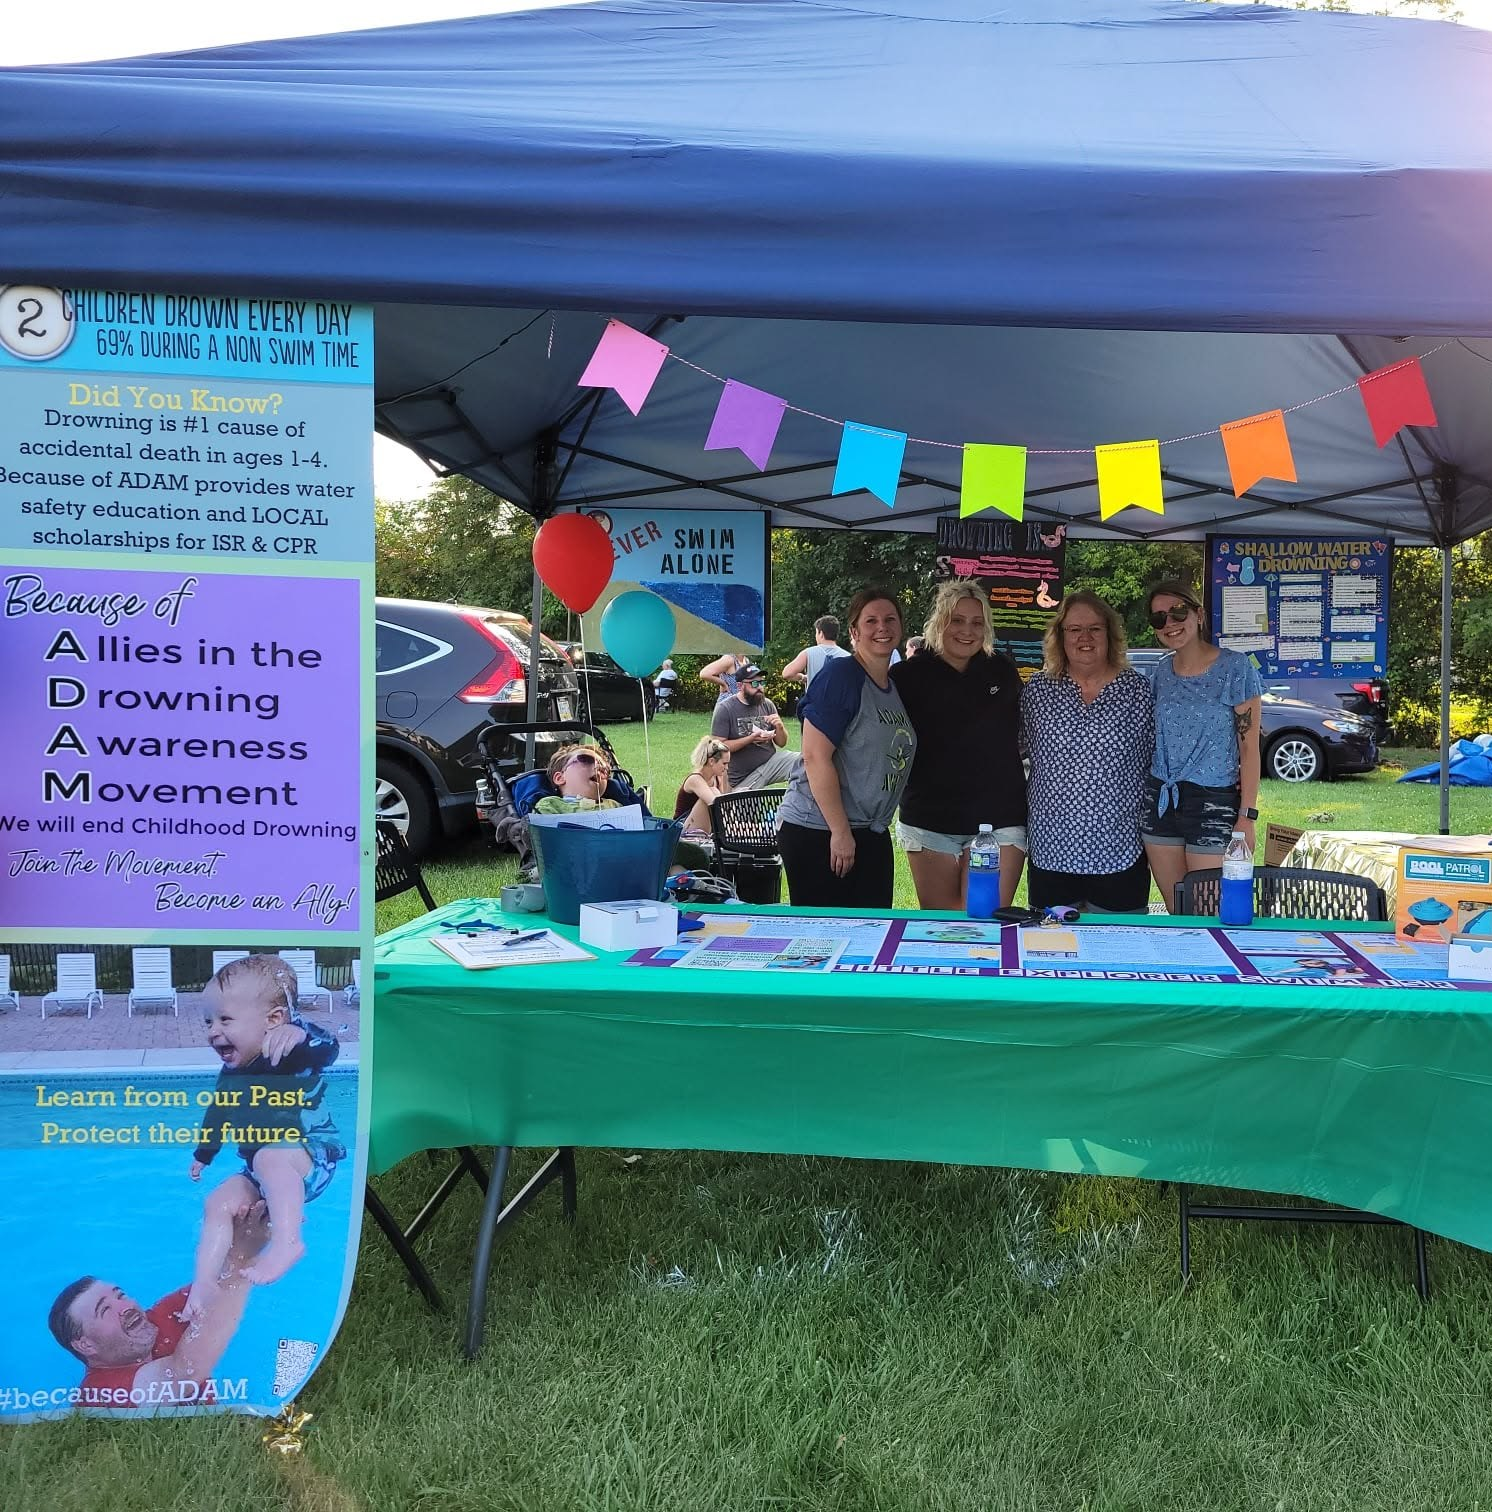
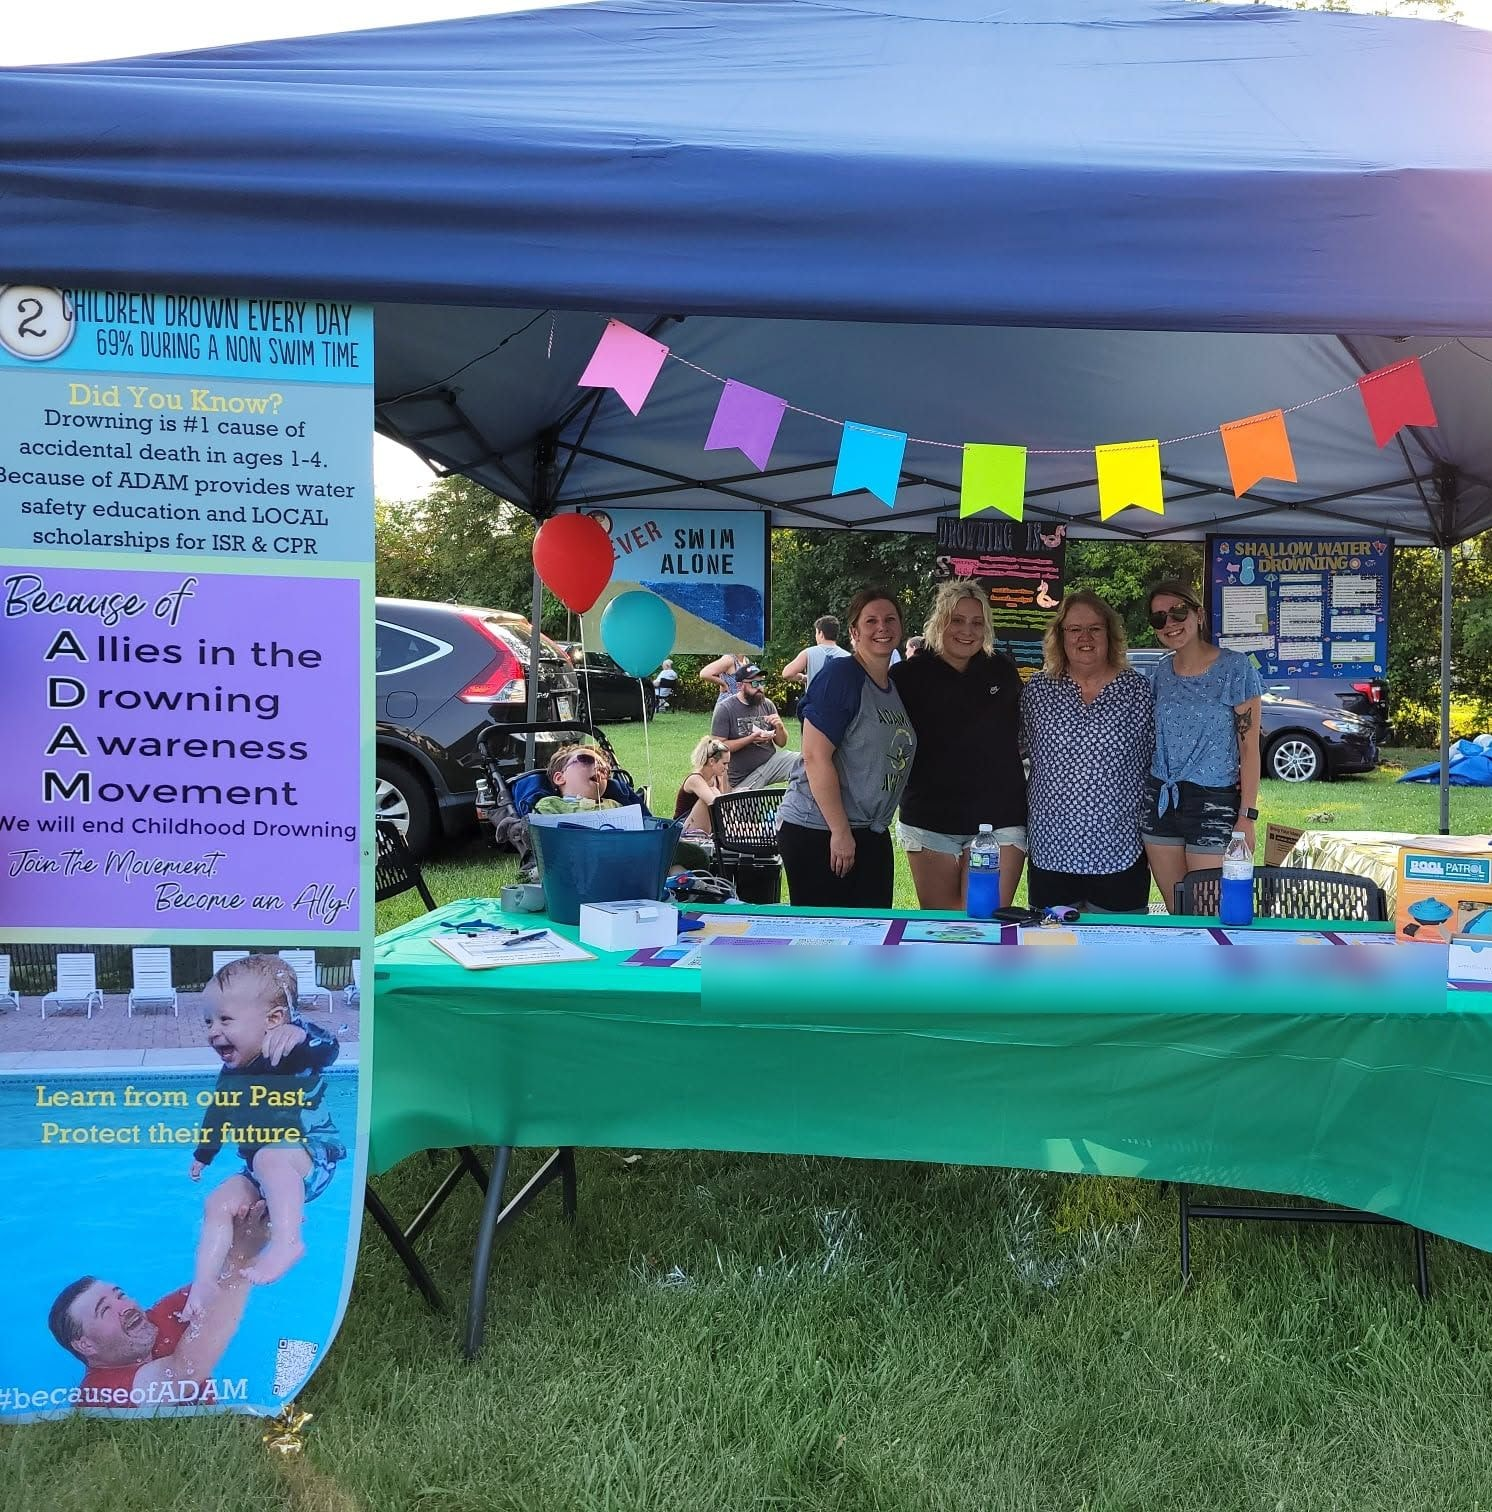
Photos: fact-checked captions, and the layout fixes from the design review
Fact check against the photos and Mom's dated posts:
- The Disney photo has eight people, so the caption no longer counts heads.
- The booth photo still showed Dad's business name on the table runner;
  it's blurred, and the alt says 'a July 2021 community event' until the
  family confirms the venue.
- The painted-rocks photo was from March 2019 and painted for another
  family's child, so the Halloween batch (fall 2018) replaces it, and the
  event reads 'Since spring 2018'.
- The pavilion crowd wears the 2017 benefit shirts, so that alt names no
  event; the 200 Club alt names no year; two alts that were empty are
  written; 'smiling', '14 months', 'one of my games', 'cap' and 'two
  grown-ups' are gone where the photo doesn't show them.
- The 2017 dinner was at the Duncansville Community Center, with a dance.

Design review:
- On phones the story's opening photo sits above the story instead of
  after it; on desktop the sticky column only sticks on tall screens.
- Captions line up under natural-width photos and balance their lines.
- Team cards are square, so Mom's and Adam's faces aren't clipped.
- The beach photo moves into the text column on Survivors, which top-aligns.
- Event cards with photos come first in each group.
- Portrait photos cap at 520px, which also sharpens two low-res ones.
- The PICU photo follows the first paragraph instead of the heading, and
  the Tupperware photo is cropped so Adam is bigger in the frame.

Changed region(s): [[0.4625, 0.6217, 0.9866, 0.6839]]

diff --git a/src/styles/global.css b/src/styles/global.css
@@ -369,13 +369,14 @@ a:hover {
   display: block;
   width: auto;
   max-width: 100%;
-  max-height: min(620px, 78vh);
+  max-height: min(520px, 65vh);
   margin: 0 auto;
   box-shadow: 0 30px 60px -30px rgb(4 29 43 / 0.55);
 }
 .prose .story-figure figcaption {
   margin-top: 12px;
   text-align: center;
+  text-wrap: balance;
   font-size: 0.92rem;
   color: var(--ink-soft);
 }

diff --git a/docs/STORY-NOTES.md b/docs/STORY-NOTES.md
@@ -71,35 +71,35 @@ Full-size photos live in `public/images/uploads/` (uploaded through GitHub or th
 | `momdadaj-1.jpg` | Adam's Story, after Dad's bath-time quote | Mom, Dad and baby Adam |
 | `aj_plants.jpg` | Adam's Story, the 2017 garden | Adam in front of the seedling trays |
 | `ricgradredbikeb4acc-1.jpg` | Adam's Story, June 5 | Rickey's graduation, days before; the red tricycle |
-| `picu.jpg` | Adam's Story, PICU | Mom holding Adam in the PICU, summer 2017 (the one hospital photo on the site) |
-| `adams_village.jpg` | Adam's Story, September 2017; Events (Adam's Hope benefit 2017) | Bee-logo Adam's Hope shirts under a tent, Adam in front. **Family, please confirm this is the 2017 benefit on the bayou** |
-| `fishingrodeo.jpg` | Events (fishing rodeo) | The packed pavilion. The family's own filename says fishing rodeo, so it is no longer captioned as the 2017 benefit |
+| `picu.jpg` | Adam's Story, PICU | Mom holding Adam in the PICU; her badge reads 7-3-17, the day of her first cuddle (July 5, 2017 post). The one hospital photo on the site; **family, confirm it stays** |
+| `adams_village.jpg` | Adam's Story, September 2017; Events (Adam's Hope benefit 2017) | Light blue bee-logo Adam's Hope shirts (the 2017 design), Adam in front; Adam was in Louisiana that September. Captioned without a place. **Family, please confirm this is the 2017 benefit on the bayou** |
+| `fishingrodeo.jpg` | Events (fishing rodeo) | The packed pavilion. The family's filename says fishing rodeo, but every legible shirt is the light blue 2017 benefit design, not the royal blue 2018 rodeo shirts, so the alt names no event. **Family: 2017 benefit or 2018 rodeo?** |
 | `fr17.jpg` | Adam's Story, the 2018 rodeo | Mom, Lea (bee face paint) and Adam; the photo itself says "Adams Hope Fishing Rodeo 2018" |
 | `fr3.jpg` | Get Involved | The crowd under the tent at the rodeo, Adam in the middle (2018 per the fr-series) |
 | `lea_dad_garden.jpg` | Adam's Story, "Planting seeds" | Dad and Lea at the raised bed. Year not stated in the caption |
 | `mom-nurse-1.jpg` | Adam's Story, "Planting seeds" | Mom's nursing graduation, family around her |
 | `aj_smile.jpg` | Adam's Story, "Because of Adam" | Adam in glasses, "Mom's amazing dude" sweatshirt |
-| `mom_and_adam_at_softball_game.jpg` | Adam's Story, the games paragraph | Mom and Adam on a blanket at one of Avery's softball games (per the family's filename) |
+| `mom_and_adam_at_softball_game.jpg` | Adam's Story, the games paragraph | Mom and Adam on a blanket at a softball game (the filename doesn't say whose). Adam's red, white and blue shirt matches Mom's July 4, 2019 "ballpark last week" post |
 | `avery_and_aj2.jpg` | Adam's Story, the nights in his room | Avery and Adam, Tigers jersey |
 | `leaaj2.jpg` | Adam's Story, Lea's paragraph | Lea and Adam in the armchair |
-| `disney.jpg` | About, family photo | All seven at Disney in Seven Dwarfs shirts; Adam's says "The Charming One" |
+| `disney.jpg` | About, family photo | Eight people in "The ___ One" shirts at the Seven Dwarfs Mine Train; Adam is "The Charming One," Lea is Snow White. **Family: who is the eighth person, and are they fine being on the site?** The caption no longer counts heads |
 | `mom_and_aj.jpg` | About, Mom's card | Mom and Adam, Halloween 2019 (the family's "Up" year, Mom's post of Nov. 9, 2019) |
 | `new_normal.jpg` | About, Dad's card | Dad and Adam on a train ride |
 | `xmaspic.jpg` | About, siblings' card | The kids under the Christmas blanket |
 | `lea_and_adam.jpg` | Survivors & Families, top | Lea as Kevin and Adam as Russell from "Up," Halloween 2019 (Mom's post of Nov. 9, 2019) |
 | `beach_lifegoeson.jpg` | Survivors & Families, beside "What nonfatal drowning means" | Adam at the beach between two grown-ups (captioned only "Adam at the beach") |
-| `dad-teaching-a-float.jpg` | ISR Swim Lessons | A crop of `dadisr.jpg` with the business name cropped off the top and bottom. **Family: please confirm the student's parents are fine with this photo on the site** |
-| `booth-2021.jpg` | Events (Water Safety Booth 2021) | A crop of `duncansville_days_bcofadam.jpg` with the ISR business banner cropped off the right |
-| `200_club.jpg` | Events (Adam's Army 200 Club, 2018) | The group at the Duncansville Community Center |
+| `dad-teaching-a-float.jpg` | ISR Swim Lessons | A crop of `dadisr.jpg` with the business name cropped off the top and bottom. It is a pool photo with a student who isn't family, from Dad's own public ad. **Family: please confirm the student's parents are fine with this photo on the site** |
+| `booth-2021.jpg` | Events (Water Safety Booth 2021) | A crop of `duncansville_days_bcofadam.jpg` with the ISR business banner cropped off the right and the business name on the table runner blurred. The alt says "a July 2021 community event" until the family confirms it was Duncansville Community Days |
+| `200_club.jpg` | Events (Adam's Army 200 Club, 2018) | The group at the Duncansville Community Center. Both 200 Club nights (Oct. 14, 2017 and Oct. 13, 2018) were there, and Adam looks young in this one. **Family: 2017 or 2018?** The alt names no year |
 | `cornhole_countdown.jpg` | Events (Cornhole 2020) | Adam with the "1 day until cornhole" chalkboard |
-| `rocks.jpg` | Events (Adam Rocks) | Painted rocks: Hope, Peace, Joy, #AdamRocks |
+| `rocks2.jpg` | Events (Adam Rocks) | The Halloween batch of painted rocks (fall 2018, Mom's posts of Sept. 15 and Oct. 30, 2018). `rocks.jpg` is **not used**: it is from March 2019 and the rocks were painted for Amelia, another family's child, so her name stays off the site |
 | `momsswing.jpg` | Events (Wear Blue), News | Mom's swing painting |
 | `adamchildofgodheadshot.jpg` | Home, "Meet Adam" | Adam in the "Child of God" headband |
 | `cornhole-2021-flyer.jpg` | Events (Cornhole 2021) | The flyer |
 
 Uploaded but **not used on purpose**: `lesisrddays.jpg`, `dadisr.jpg` and `duncansville_days_bcofadam.jpg` uncropped (Dad's business banner or name), `cornhole.jpg`, `200_club_benefit.jpg`, `adams_bayou_benefit.jpg` and `adams_hope_pamphlet.jpg` (phone numbers, people's names or payment links), `isr.jpg` (ISR's registered logo), `kailee_rock.jpg` (a child who isn't family), `lea_and_aj_kiss.jpg`, `right_after.jpg`, `small_hospital_couch.jpg`, `lea_stuffed_animals.jpg`, `captainaj.jpg` (hospital), `adams_village_3.jpg` (another family's teal shirts), and personal photos (`mom+dad.jpg`, `momdadgirls.jpg`, `momdadlea.jpg`, `roadtrip.jpg`, `snowman.jpg`, `decorating_xmas_tree.jpg`, `lea_bday.jpg`, `tiger_fans.jpg`, `yoda.jpg`, `aj_2025.jpg` which is also stored sideways). The 206px thumbnails and exact duplicates of files already in use were deleted.
 
-Lightly brightened in October 2026 so they read on a phone (no other edits): `before_aj_mess.jpg`, `aj_plants.jpg`, `picu.jpg`, `avery_and_aj2.jpg`, `xmaspic.jpg`, `fishingrodeo.jpg`. The originals are in the git history and on Facebook.
+Lightly brightened in October 2026 so they read on a phone (no other edits): `aj_plants.jpg`, `picu.jpg`, `avery_and_aj2.jpg`, `xmaspic.jpg`, `fishingrodeo.jpg`. `before_aj_mess.jpg` was brightened and cropped tighter (the countertop at the top is gone, so Adam is bigger in the frame). The originals are in the git history and on Facebook.
 
 Kept off the site: hospital and medical photos (one PICU photo excepted), bath and pool photos, the newspaper photo, siblings' personal photos, and flyers with phone numbers or the prayersforadam PayPal.
 
@@ -147,6 +147,7 @@ Those stay on Facebook, where people choose to follow along.
 - **Adam Rocks the Jaffa**, Altoona (announced Feb. 28, 2020, with event shirts and "Adam's Ambassadors"). Avery thinks it was probably canceled (likely COVID), so it isn't on the site.
 - **Wear Blue on June 5**: every year, since the first anniversary in 2018 (Mom's poem "The Color of Love," June 4, 2018: "Today I choose to wear BLUE for Adam's hope, his strength, and our journey's reflection.")
 - **Vendor fair**, Saturday, Oct. 14, 2017, 10 a.m. to 2 p.m.: the only post says Adam's Hope shirts were for sale there, not that the fair was held for Adam, so the site mentions it inside the benefit dinner event instead of as its own event.
+- **The Oct. 14, 2017 dinner** was a "200 Club Benefit Dinner, Drawing & Dance" at the Duncansville Community Center (doors at 5, drawing at 6:30, dance at 7; $50 ticket admits 2; $800 drawing), per the flyer `200_club_benefit.jpg`, which stays off the site because it names contacts.
 
 ## News coverage we've had
 

diff --git a/src/content/pages/adams-story.md b/src/content/pages/adams-story.md
@@ -38,7 +38,7 @@ That spring, Dad and Lea grew a garden from seed. Lea was 4, and she picked out 
 
 That Monday was June 5, 2017, and our house was as full as it gets. Rickey had just graduated from high school, family had flown in to celebrate, and Grace and I were in our uniforms for the first game of the season. After the business with my brush, Adam went to play with Lea in a tent in the living room, carrying his toys inside, and Dad, Grace and I left for the field. Dad coached our team, so the three of us always went early to warm up.
 
-![](/images/uploads/ricgradredbikeb4acc-1.jpg)
+![Rickey in his blue graduation cap and gown, bending down on the track to Adam, who sits on his red tricycle and reaches up to touch his face](/images/uploads/ricgradredbikeb4acc-1.jpg)
 
 *Rickey’s graduation, days before. Adam’s red tricycle still sits in Mom’s closet.*
 
@@ -52,11 +52,11 @@ Everyone who could took a turn after Mom: our family, the first responders, the 
 
 ## She read to him anyway
 
+Mom stayed with him, first in Pittsburgh, and for the next four months our family lived in two places. One week in, a neurologist told her that Adam would never hear her again. She read to him anyway. For 33 days she wasn’t allowed to hold him, so she stood beside his crib, *“singing, reading, praying and squeezing his hand but nothing more.”* Then one day, while she was reading, he cried.
+
 ![Mom holding Adam in the hospital, with his breathing tube and wires](/images/uploads/picu.jpg)
 
 *Mom and Adam in the PICU, summer 2017.*
-
-Mom stayed in Pittsburgh with him, and for the next four months our family lived in two places. One week in, a neurologist told her that Adam would never hear her again. She read to him anyway. For 33 days she wasn’t allowed to hold him, so she stood beside his crib, *“singing, reading, praying and squeezing his hand but nothing more.”* Then one day, while she was reading, he cried.
 
 Most days, though, nothing seemed to reach him. One day I walked in while Mom and his therapist were working with him and getting nowhere. I was 14, and I didn’t understand that he wasn’t responding the way Mom was hoping he would. The therapist, out of ideas, asked if I would talk to him the way I normally did at home. I leaned over the crib, thought for a second, and snapped, *“Adam. Get out of my room!”* His eyes shot open. I laughed. Mom was shocked, and then she was crying.
 
@@ -66,9 +66,9 @@ Grace and I started a new school year without Mom there. Every day, friends and 
 
 That September, our hometown packed a pavilion with people in blue Adam’s Hope shirts, and two weeks later our Pennsylvania neighbors held a benefit of their own.
 
-![A crowd in blue Adam’s Hope shirts under a tent, with Adam in his stroller in the front row](/images/uploads/adams_village.jpg)
+![A group in light blue Adam’s Hope shirts, with Adam in his stroller in the front row](/images/uploads/adams_village.jpg)
 
-*Adam’s village in blue at the benefit in Lafitte.*
+*Adam’s village in blue Adam’s Hope shirts.*
 
 That same month, a special scan showed that the part of Adam’s brain that was hurt when it went without oxygen was shaped like a perfect heart. *“Rather than devastation, I was flooded with immense hope,”* Mom wrote. That heart is [our logo](/about) now.
 
@@ -104,7 +104,7 @@ Dad became a Red Cross CPR instructor, then spent eight weeks in Florida learnin
 
 In her first months of nursing school, with Dad away in Florida, Adam’s night nurse quit without notice. Three agencies couldn’t staff his 90 hours of approved nursing, so Mom covered his nights herself. Then she threw on her scrubs and walked two icy blocks through downtown Altoona before sunrise to get to clinicals. I spent my senior year working on Because of ADAM and helping coach Lea’s softball team, the 8U Fireflies.
 
-![](/images/uploads/mom-nurse-1.jpg)
+![Mom in her white nursing uniform and cap at her graduation, with the family around her and Adam in his chair in front](/images/uploads/mom-nurse-1.jpg)
 
 *Mom became a nurse, and we were all there to cheer her on.*
 
@@ -120,11 +120,11 @@ I wanted to know everything about taking care of him, so I learned to do what hi
 
 ![Mom sitting on a plaid blanket on the grass with Adam in her lap, a car parked behind them](/images/uploads/mom_and_adam_at_softball_game.jpg)
 
-*Mom and Adam at one of my softball games.*
+*Mom and Adam at a softball game.*
 
 I’m in school in Louisiana now, so I see Adam when I come home. He has nurses around the clock, and most of the time he’s in his bed or his stroller, so I go in to see him when Mom is on shift. I love my mom with my whole heart, and those nights are my favorite part of coming home. It’s just the three of us in his room, me and Mom and Adam, and we can talk about anything. I can tell her whatever I need to. She can tell me her latest conspiracy theory. We gab into the night, and the whole time Adam is right there, hearing the people he loves just living their lives and talking. We don’t bring him into the conversation much, because he can’t answer. We bring him into the moment. I know how simple that sounds. It’s so special to me, and every time I go home I make sure I get one more night like that with them.
 
-![Avery resting her head against Adam’s, his cap pulled low, in a purple Tigers jersey](/images/uploads/avery_and_aj2.jpg)
+![Avery resting her head against Adam’s, his black visor pulled low, in a purple Tigers jersey](/images/uploads/avery_and_aj2.jpg)
 
 *Me and Adam.*
 

diff --git a/src/content/events/adam-rocks-2018.md b/src/content/events/adam-rocks-2018.md
@@ -2,12 +2,12 @@
 title: "Adam Rocks: Painted Rocks for Water Safety"
 kind: Awareness
 date: ""
-when: Spring 2018
+when: Since spring 2018
 location: Louisiana and Pennsylvania
 summary: "Friends painted rocks in honor of Adam’s fighting spirit, from a church group back home in Louisiana to friends in Altoona, and hid them around town to spread the word before summer: drowning is preventable."
 highlight: "#AdamRocks"
-photo: /images/uploads/rocks.jpg
-photoAlt: "Painted rocks that say Hope, Peace, Joy and #AdamRocks on a wooden table with confetti"
+photo: /images/uploads/rocks2.jpg
+photoAlt: "A batch of painted rocks on a dark table: pumpkins, ghosts, a sunflower, a candy corn and more, with orange confetti"
 link: ""
 linkLabel: ""
 featured: false

diff --git a/src/content/events/adams-hope-benefit-dinner-2017.md b/src/content/events/adams-hope-benefit-dinner-2017.md
@@ -3,8 +3,8 @@ title: Adam’s Hope Benefit Dinner & Drawing
 kind: Community
 date: 2017-10-14
 when: ""
-location: Duncansville, PA
-summary: "Our Pennsylvania community came together for dinner, a drawing with an $800 grand prize and a night of entertainment, all for Adam’s medical care. Earlier that day, Adam’s Hope shirts were for sale at a vendor fair, from 10 a.m. to 2 p.m."
+location: Duncansville Community Center, Duncansville, PA
+summary: "Our Pennsylvania community came together for dinner, a drawing with an $800 grand prize and a dance, all for Adam’s medical care. Earlier that day, Adam’s Hope shirts were for sale at a vendor fair, from 10 a.m. to 2 p.m."
 highlight: ""
 photo: ""
 photoAlt: ""

diff --git a/src/content/events/adams-army-200-club-2018.md b/src/content/events/adams-army-200-club-2018.md
@@ -7,7 +7,7 @@ location: Duncansville Community Center, Duncansville, PA
 summary: "Adam’s Army held a benefit at the Duncansville Community Center: food, friends and a drawing with 40 cash prizes, and only 200 tickets, all for Adam’s medical care."
 highlight: ""
 photo: /images/uploads/200_club.jpg
-photoAlt: "Adam’s Army in blue Adam’s Hope shirts at the Duncansville Community Center, Adam in his stroller in the middle"
+photoAlt: "Friends in blue Adam’s Hope shirts at a 200 Club benefit at the Duncansville Community Center, Adam in his stroller in the middle"
 link: ""
 linkLabel: ""
 featured: false

diff --git a/src/content/events/fishing-rodeo.md b/src/content/events/fishing-rodeo.md
@@ -7,7 +7,7 @@ location: Jean Lafitte, Louisiana
 summary: "Our family and our hometown of Jean Lafitte threw a fishing rodeo for Adam, with shirts, trophies, raffles, auctions, music and food, all donated. It paid for his first stem cell treatment at Duke. It came before Because of ADAM, and it showed us what a village can do."
 highlight: "#WereTheVillage"
 photo: /images/uploads/fishingrodeo.jpg
-photoAlt: "A packed pavilion full of people in blue shirts at the fishing rodeo"
+photoAlt: "A packed pavilion in Lafitte, full of people in blue Adam’s Hope shirts"
 link: ""
 linkLabel: ""
 featured: true

diff --git a/src/content/events/adams-hope-benefit-2017.md b/src/content/events/adams-hope-benefit-2017.md
@@ -7,7 +7,7 @@ location: Lafitte, Louisiana
 summary: "Our hometown packed the Jules Nunez Seafood Pavilion in blue Adam’s Hope shirts: a poker run, a car show, a cornhole tournament, live music, auctions and a kids’ fair, all for Adam’s medical care."
 highlight: ""
 photo: /images/uploads/adams_village.jpg
-photoAlt: A crowd in blue Adam’s Hope shirts under a tent, with Adam in his stroller in the front row
+photoAlt: A group in light blue Adam’s Hope shirts, with Adam in his stroller in the front row
 link: ""
 linkLabel: ""
 featured: false

diff --git a/src/content/events/water-safety-booth-2021.md b/src/content/events/water-safety-booth-2021.md
@@ -7,7 +7,7 @@ summary: "We set up our blue tent with water
   safety info, a “Never swim alone” poster and our banner: “We will end
   childhood drowning. Join the movement. Become an Ally!”"
 photo: /images/uploads/booth-2021.jpg
-photoAlt: "Our tent at Duncansville Community Days, with the Because of ADAM banner and the layers of protection poster"
+photoAlt: "Our blue tent at a July 2021 community event, with the Because of ADAM banner, balloons, and the “Never swim alone” poster"
 featured: false
 draft: false
 ---
